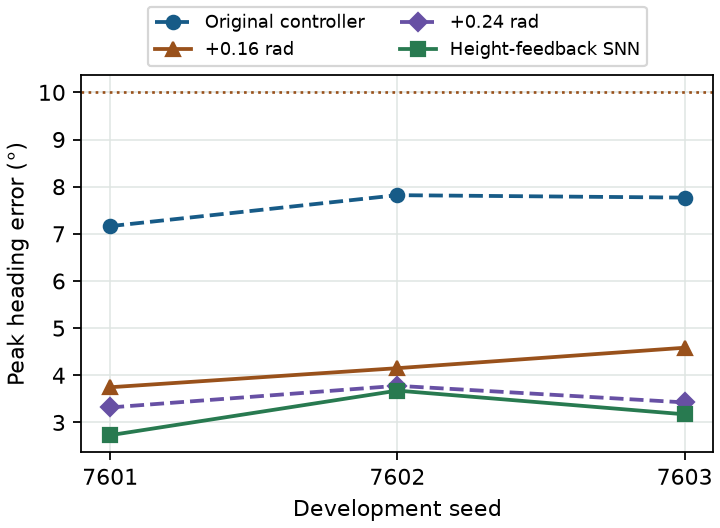
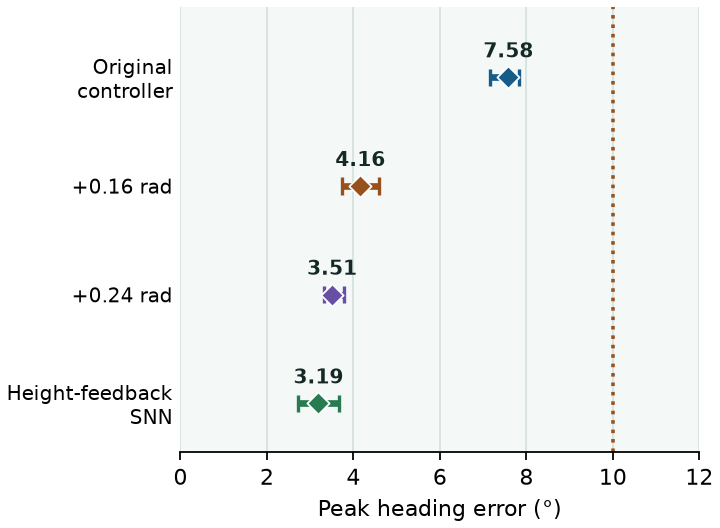
Compare Go2 outcomes with range and mean plots

diff --git a/dashboard/src/main.tsx b/dashboard/src/main.tsx
@@ -46,7 +46,7 @@ const metrics = {
     unit: 'cm',
     referenceLabel: '25 cm run limit',
     value: (row: EvidenceRow) => row.mean_abs_final_y_m * 100,
-    note: 'The dotted line marks the 25 cm limit. A point above it means the robot finished too far sideways on that run.',
+    note: 'The dotted line marks the 25 cm limit. Any part of a range to its right represents sideways offsets beyond the limit.',
   },
   height: {
     label: 'Rendered visual height',
@@ -54,7 +54,7 @@ const metrics = {
     unit: 'cm',
     referenceLabel: '40 cm nominal height',
     value: (row: EvidenceRow) => row.mean_visual_top_height_m * 100,
-    note: 'The 40 cm line is the manufacturer’s nominal overall standing height. The points measure the average height of the top of the rendered robot after the first 0.75 seconds.',
+    note: 'The 40 cm line is the manufacturer’s nominal overall standing height. Each run measures the average height of the top of the rendered robot after the first 0.75 seconds.',
   },
   yaw: {
     label: 'Mean peak heading error',
@@ -62,7 +62,7 @@ const metrics = {
     unit: '°',
     referenceLabel: '10° run limit',
     value: (row: EvidenceRow) => row.mean_peak_yaw_deg,
-    note: 'The dotted line marks the 10° run limit. Each point is the largest absolute heading error measured during that run.',
+    note: 'The dotted line marks the 10° run limit. The plot uses the largest absolute heading error measured in each run.',
   },
 } as const
 
@@ -319,11 +319,11 @@ function App() {
 
               <figure className="study-plot">
                 <img key={studyId + metricId} src={`/media/go2-study-${studyId}-${metricId}.png`}
-                  width="720" height="528" alt={`${metric.label} by development seed for ${study.title}.`} />
+                  width="720" height="528" alt={`${metric.label} range and mean across three development seeds for ${study.title}.`} />
                 <figcaption>
                   <strong>{metric.referenceLabel}</strong>
                   <p>{metric.note}</p>
-                  <p>Each line follows one controller configuration across three matched seeds. Each point is one run. Open the measurement table for configuration averages or download the episode CSV for exact run values.</p>
+                  <p>Each row shows one controller. The line spans its lowest and highest values across three matched seeds. The labeled diamond shows the mean. Open the measurement table for configuration averages or download the episode CSV for exact run values.</p>
                 </figcaption>
               </figure>
 
@@ -398,12 +398,12 @@ function App() {
             </figure>
           </div>
           <h4 className="trace-heading">Across all three seeds</h4>
-          <p>Each marker represents one completed run. Lines help you follow the same controller across matched seeds. The figures above show how the measurements changed within one run.</p>
+          <p>The line spans the lowest to highest result across the three seeds. The labeled diamond marks the mean. The dotted line shows the metric’s benchmark.</p>
           <div className="snn-charts">
             {([
-              ['height', 'Each point is the mean height of the top of the rendered robot after 0.75 s. The dotted line shows the 40 cm nominal standing height. The SNN was taller on all three seeds.'],
-              ['yaw', 'Each point is the largest absolute heading error in an eight-second run. Both controllers stayed below the dotted 10° limit, and the SNN had less heading error on every seed.'],
-              ['drift', 'Each point is the absolute distance sideways when the run ended. Every SNN run exceeded the dotted 25 cm limit, while every original-controller run stayed below it.'],
+              ['height', 'Each run contributes its mean height of the top of the rendered robot after 0.75 s. The dotted line shows the 40 cm nominal standing height. The SNN was taller on all three seeds.'],
+              ['yaw', 'Each run contributes its largest absolute heading error in an eight-second run. Both controllers stayed below the dotted 10° limit, and the SNN had less heading error on every seed.'],
+              ['drift', 'Each run contributes its absolute distance sideways when the run ended. Every SNN run exceeded the dotted 25 cm limit, while every original-controller run stayed below it.'],
             ] as const).map(([id, explanation]) => {
               const metric = metrics[id]
               const baselineMean = metric.value(original).toFixed(2)
@@ -412,7 +412,7 @@ function App() {
                 <figure className="snn-chart" key={id}>
                   <h5>{metric.label}</h5>
                   <img src={`/media/go2-seed-comparison-${id}.png`} width="720" height="528" loading="lazy"
-                    alt={`${metric.label} for the original controller and the height-feedback SNN on seeds 7601, 7602, and 7603.`} />
+                    alt={`${metric.label} range and mean for the original controller and the height-feedback SNN on seeds 7601, 7602, and 7603.`} />
                   <figcaption>
                     <p className="snn-means">Three-run averages · {baselineMean} {metric.unit} original · {neuralMean} {metric.unit} SNN</p>
                     <p>{explanation}</p>

diff --git a/dashboard/plot_iterate_traces.py b/dashboard/plot_iterate_traces.py
@@ -26,22 +26,36 @@ def plot_seed_comparisons(dashboard, media, study_id, series, output_prefix):
         rows = list(csv.DictReader(source))
     seeds = [7601, 7602, 7603]
     plots = [
-        ("height", "mean_visual_top_height_after_075s_m", "Top-of-robot height (cm)", 100, 40),
-        ("yaw", "max_abs_yaw_deg", "Peak heading error (°)", 1, 10),
-        ("drift", "sideways_m", "Final sideways offset (cm)", 100, 25),
+        ("height", "mean_visual_top_height_after_075s_m", "Top-of-robot height (cm)", 100, 40, (34, 43)),
+        ("yaw", "max_abs_yaw_deg", "Peak heading error (°)", 1, 10, (0, 12)),
+        ("drift", "sideways_m", "Final sideways offset (cm)", 100, 25, (0, 110)),
     ]
-    for name, field, label, scale, reference in plots:
+    for name, field, label, scale, reference, bounds in plots:
         fig, ax = plt.subplots(figsize=(4.5, 3.3), layout="constrained")
-        for mode, title, color, style, marker in series:
+        ax.set_facecolor("#f4f8f6")
+        for index, (mode, title, color) in enumerate(series):
             values = {int(row["seed"]): abs(float(row[field])) * scale
                       for row in rows if row["mode"] == mode}
-            ax.plot(seeds, [values[seed] for seed in seeds], color=color,
-                    linestyle=style, marker=marker, linewidth=1.7, label=title)
-        ax.axhline(reference, color="#99511b", linestyle=":", linewidth=1.2)
-        ax.set(xlabel="Development seed", ylabel=label, xticks=seeds)
-        ax.grid(color="#dfe5e2", alpha=.85)
+            if set(values) != set(seeds):
+                raise ValueError(f"Unexpected seeds for {study_id}/{mode}: {values.keys()}")
+            low, high = min(values.values()), max(values.values())
+            average = np.mean(list(values.values()))
+            if not bounds[0] <= low <= high <= bounds[1]:
+                raise ValueError(f"Plot bounds exclude values for {study_id}/{mode}/{name}")
+            ax.hlines(index, low, high, color=color, linewidth=3)
+            ax.vlines([low, high], index - .08, index + .08, color=color, linewidth=1.5)
+            ax.scatter(average, index, color=color, edgecolor="white", marker="D",
+                       s=50, linewidth=.8, zorder=3)
+            ax.annotate(f"{average:.2f}", (average, index), xytext=(0, 9),
+                        textcoords="offset points", ha="center", fontsize=9,
+                        fontweight="bold", color="#142825")
+        ax.axvline(reference, color="#99511b", linestyle=":", linewidth=1.6)
+        ax.set(xlabel=label, xlim=bounds, ylim=(len(series) - .55, -.65),
+               yticks=range(len(series)), yticklabels=[title for _, title, _ in series])
+        ax.tick_params(axis="y", length=0, labelsize=9)
+        ax.grid(axis="x", color="#d6e2de")
         ax.set_axisbelow(True)
-        ax.legend(loc="lower center", bbox_to_anchor=(.5, 1), fontsize=8, ncol=2)
+        ax.spines[["top", "right", "left"]].set_visible(False)
         fig.savefig(media / f"{output_prefix}-{name}.png", dpi=160)
         plt.close(fig)
 
@@ -87,19 +101,19 @@ def main():
         fig.savefig(media / f"go2-seed7601-{name}.png", dpi=160)
         plt.close(fig)
 
-    original = ("baseline", "Original controller", "#175b87", "--", "o")
-    neural_series = ("neural", "Height-feedback SNN", "#287a50", "-", "s")
+    original = ("baseline", "Original\ncontroller", "#175b87")
+    neural_series = ("neural", "Height-feedback\nSNN", "#287a50")
     plot_seed_comparisons(dashboard, media, "development", (original, neural_series),
                           "go2-seed-comparison")
     for study_id, modes in (
         ("extension_scan", (
-            ("fixed04", "+0.04 rad", "#99511b", "-", "^"),
-            ("fixed08", "+0.08 rad", "#6750a4", "--", "D"),
-            ("fixed12", "+0.12 rad", "#287a50", "-", "s"),
+            ("fixed04", "+0.04 rad", "#99511b"),
+            ("fixed08", "+0.08 rad", "#6750a4"),
+            ("fixed12", "+0.12 rad", "#287a50"),
         )),
         ("development", (
-            ("fixed16", "+0.16 rad", "#99511b", "-", "^"),
-            ("fixed24", "+0.24 rad", "#6750a4", "--", "D"),
+            ("fixed16", "+0.16 rad", "#99511b"),
+            ("fixed24", "+0.24 rad", "#6750a4"),
             neural_series,
         )),
     ):
